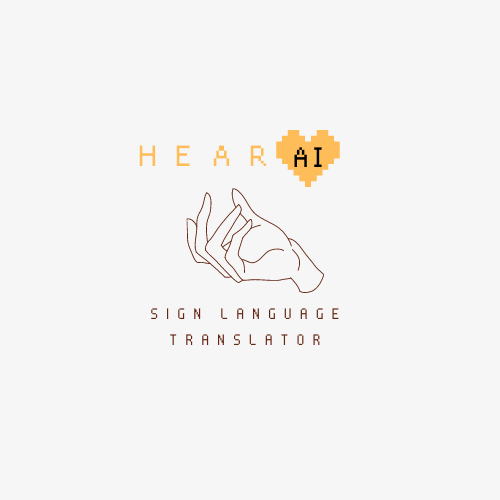
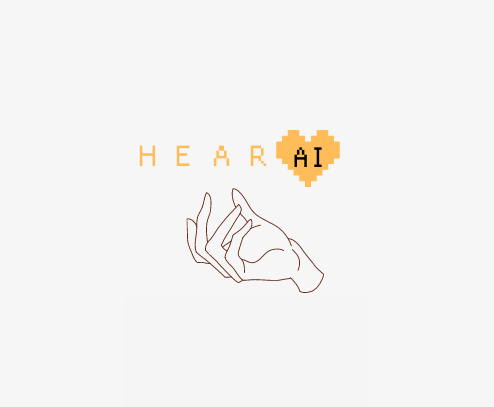
Delete translation words (#21)
* Update params.yaml

* deleted the word 'translation'

* Delete avatar.png

* add new avatar without 'translation'

* Changed  why and what 

Changed  why and what so it does not have 'translation' word in it

* Delete avatar.png

* add new avatar

Changed region(s): [[0.2733, 0.2359, 0.6984, 0.7371], [0.6377, 0.5307, 0.668, 0.5602], [0.4251, 0.2948, 0.4555, 0.3243]]

diff --git a/content/home/slider.md b/content/home/slider.md
@@ -18,7 +18,7 @@ height = "500px; background-position:center; background-repeat: no-repeat; backg
 # Duplicate an `[[item]]` block to add more slides.
 [[item]]
   title = "HearAI"
-  content = "Non-profit project towards Sign Language Translation"
+  content = "Non-profit project with the aim to use AI for Polish Sign Language"
   align = "center"  
   overlay_color = "#666"  # An HTML color value.
   overlay_img = "welcome.png"  # Image path relative to your `static/img/` folder.

diff --git a/content/home/what_and_why.md b/content/home/what_and_why.md
@@ -19,6 +19,5 @@ subtitle = ""
 +++
 
 Deaf people are affected by many forms of exclusion, especially now in pandemic world.
-
-The idea of *Polish Sign Language Translation* project is to use Artificial Intelligence to translate polish sign language to text.
-Our goal is to use *AI for Good*.
+HEARAI aim is to build deep learning solution to make the world more accessible for the Deaf community 
+and increasing existing knowledge base in using AI for Polish Sign Language.
